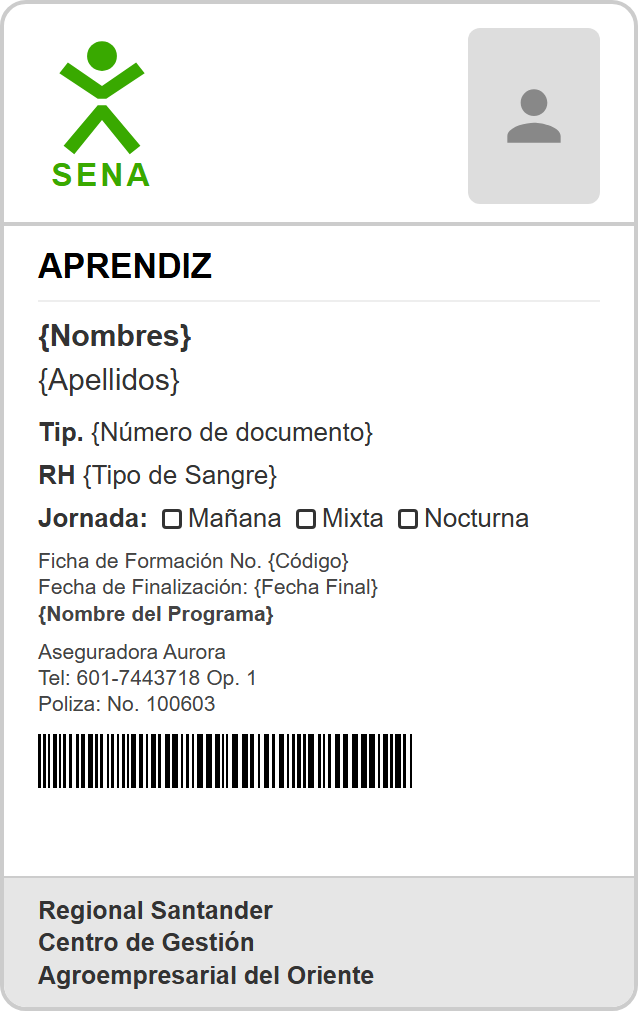
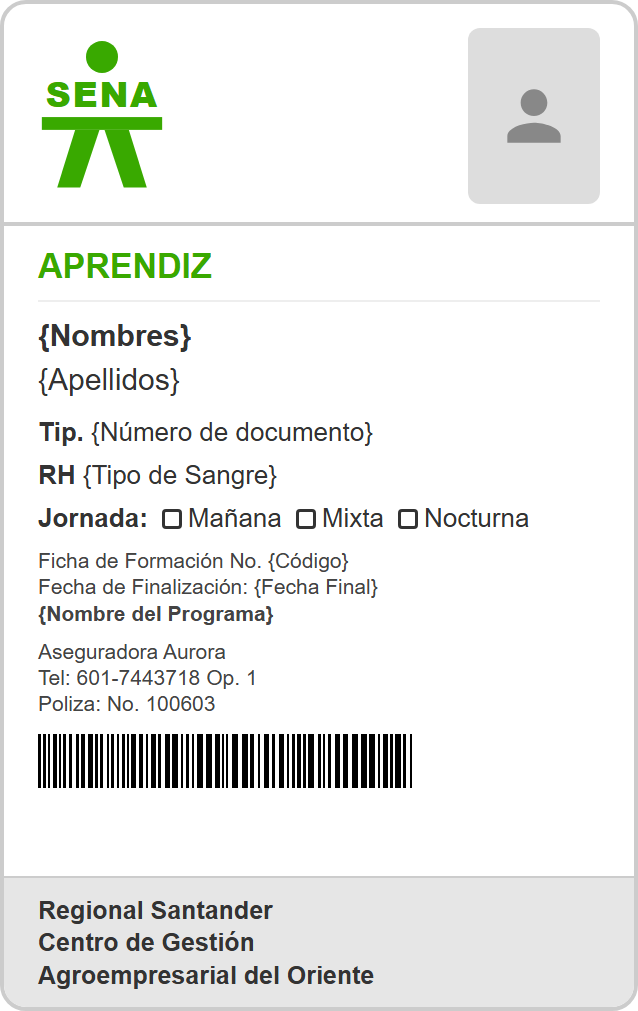
9.1

Changed region(s): [[0.0596, 0.0613, 0.268, 0.184], [0.0596, 0.2453, 0.3276, 0.276]]

diff --git a/app/templates/usuarios/profile.html b/app/templates/usuarios/profile.html
@@ -31,12 +31,12 @@
                 <div class="carnet-card institutional {{ cargo_class }}" id="carnet-capture">
                     <!-- Marca de agua decorativa -->
                     <div class="carnet-watermark">
-                        <img src="https://upload.wikimedia.org/wikipedia/commons/8/83/Sena_Colombia_logo.svg" alt="">
+                        <img src="{{ url_for('static', filename='img/logo-sena-verde.svg') }}" alt="">
                     </div>
                     
                     <div class="carnet-header-inst">
                         <div class="header-logo">
-                            <img src="https://upload.wikimedia.org/wikipedia/commons/8/83/Sena_Colombia_logo.svg" alt="SENA">
+                            <img src="{{ url_for('static', filename='img/logo-sena-verde.svg') }}" alt="SENA">
                         </div>
                         <div class="header-text-inst">
                             <div class="sena-title">SERVICIO NACIONAL DE APRENDIZAJE</div>
@@ -135,7 +135,7 @@
             <!-- Formulario Actualización / Update Form -->
             <div id="update-info-section" class="glass-card stagger-item" style="display: none;">
                 <h2 class="text-3d" style="margin-bottom: 2rem; display: flex; align-items: center; gap: 10px;">
-                    <img src="https://upload.wikimedia.org/wikipedia/commons/8/83/Sena_Colombia_logo.svg" alt="SENA"
+                    <img src="{{ url_for('static', filename='img/logo-sena-verde.svg') }}" alt="SENA"
                         style="height: 25px;">
                     Actualizar Datos
                 </h2>
@@ -191,7 +191,7 @@
             <!-- Lista de Equipos / Devices List -->
             <div id="devices-section" class="glass-card stagger-item" style="display: none;">
                 <h2 class="text-3d" style="margin-bottom: 2rem; display: flex; align-items: center; gap: 10px;">
-                    <img src="https://upload.wikimedia.org/wikipedia/commons/8/83/Sena_Colombia_logo.svg" alt="SENA"
+                    <img src="{{ url_for('static', filename='img/logo-sena-verde.svg') }}" alt="SENA"
                         style="height: 25px;">
                     Equipos Vinculados
                 </h2>
@@ -224,7 +224,7 @@
             <!-- Añadir Equipo / Add Device Form -->
             <div id="add-device-section" class="glass-card stagger-item" style="display: none;">
                 <h2 class="text-3d" style="margin-bottom: 2rem; display: flex; align-items: center; gap: 10px;">
-                    <img src="https://upload.wikimedia.org/wikipedia/commons/8/83/Sena_Colombia_logo.svg" alt="SENA"
+                    <img src="{{ url_for('static', filename='img/logo-sena-verde.svg') }}" alt="SENA"
                         style="height: 25px;">
                     Vincular Nuevo Equipo
                 </h2>

diff --git a/docs/carnets/carnet_aprendiz.html b/docs/carnets/carnet_aprendiz.html
@@ -21,7 +21,7 @@ html, body { background: #fff; }
 .carnet-body { padding: 18px 34px; flex-grow: 1; font-size: 26px; line-height: 1.35; color: #333; }
 .carnet-role {
     font-weight: bold; font-size: 34px; text-transform: uppercase;
-    margin-bottom: 14px; padding-bottom: 10px; border-bottom: 2px solid #eee; color: #000;
+    margin-bottom: 14px; padding-bottom: 10px; border-bottom: 2px solid #eee; color: #39A900;
 }
 .carnet-name { font-weight: bold; font-size: 30px; margin-bottom: 4px; }
 .carnet-surname { font-size: 30px; margin-bottom: 14px; }
@@ -45,14 +45,15 @@ html, body { background: #fff; }
 <body>
 <div class="carnet">
     <div class="carnet-header">
-        <svg width="128" viewBox="0 0 120 145" xmlns="http://www.w3.org/2000/svg">
+        <svg width="128" viewBox="0 0 200 240" xmlns="http://www.w3.org/2000/svg">
   <g fill="#39A900">
-    <circle cx="60" cy="16" r="14"/>
-    <path d="M60 44 L28 22 L20 32 L56 56 L64 56 L100 32 L92 22 Z"/>
-    <path d="M56 62 L24 100 L34 108 L60 76 L86 108 L96 100 L64 62 Z"/>
+    <circle cx="100" cy="28" r="25"/>
+    <rect x="6" y="122" width="188" height="20"/>
+    <polygon points="58,142 96,142 66,232 30,232"/>
+    <polygon points="104,142 142,142 170,232 134,232"/>
   </g>
-  <text x="60" y="138" text-anchor="middle" font-family="Arial, sans-serif"
-        font-weight="bold" font-size="30" letter-spacing="3" fill="#39A900">SENA</text>
+  <text x="100" y="106" text-anchor="middle" font-family="Arial, sans-serif"
+        font-weight="900" font-size="54" letter-spacing="3" fill="#39A900">SENA</text>
 </svg>
         <div class="carnet-photo"><svg viewBox="0 0 24 24" width="80" height="80">
   <path fill="#888" d="M12 12c2.21 0 4-1.79 4-4s-1.79-4-4-4-4 1.79-4 4 1.79 4 4 4zm0 2c-2.67 0-8 1.34-8 4v2h16v-2c0-2.66-5.33-4-8-4z"/>

diff --git a/docs/carnets/carnet_contratista.html b/docs/carnets/carnet_contratista.html
@@ -21,7 +21,7 @@ html, body { background: #fff; }
 .carnet-body { padding: 18px 34px; flex-grow: 1; font-size: 26px; line-height: 1.35; color: #333; }
 .carnet-role {
     font-weight: bold; font-size: 34px; text-transform: uppercase;
-    margin-bottom: 14px; padding-bottom: 10px; border-bottom: 2px solid #eee; color: #000;
+    margin-bottom: 14px; padding-bottom: 10px; border-bottom: 2px solid #eee; color: #39A900;
 }
 .carnet-name { font-weight: bold; font-size: 30px; margin-bottom: 4px; }
 .carnet-surname { font-size: 30px; margin-bottom: 14px; }
@@ -45,14 +45,15 @@ html, body { background: #fff; }
 <body>
 <div class="carnet">
     <div class="carnet-header">
-        <svg width="128" viewBox="0 0 120 145" xmlns="http://www.w3.org/2000/svg">
+        <svg width="128" viewBox="0 0 200 240" xmlns="http://www.w3.org/2000/svg">
   <g fill="#39A900">
-    <circle cx="60" cy="16" r="14"/>
-    <path d="M60 44 L28 22 L20 32 L56 56 L64 56 L100 32 L92 22 Z"/>
-    <path d="M56 62 L24 100 L34 108 L60 76 L86 108 L96 100 L64 62 Z"/>
+    <circle cx="100" cy="28" r="25"/>
+    <rect x="6" y="122" width="188" height="20"/>
+    <polygon points="58,142 96,142 66,232 30,232"/>
+    <polygon points="104,142 142,142 170,232 134,232"/>
   </g>
-  <text x="60" y="138" text-anchor="middle" font-family="Arial, sans-serif"
-        font-weight="bold" font-size="30" letter-spacing="3" fill="#39A900">SENA</text>
+  <text x="100" y="106" text-anchor="middle" font-family="Arial, sans-serif"
+        font-weight="900" font-size="54" letter-spacing="3" fill="#39A900">SENA</text>
 </svg>
         <div class="carnet-photo"><svg viewBox="0 0 24 24" width="80" height="80">
   <path fill="#888" d="M12 12c2.21 0 4-1.79 4-4s-1.79-4-4-4-4 1.79-4 4 1.79 4 4 4zm0 2c-2.67 0-8 1.34-8 4v2h16v-2c0-2.66-5.33-4-8-4z"/>

diff --git a/docs/carnets/carnet_funcionario.html b/docs/carnets/carnet_funcionario.html
@@ -21,7 +21,7 @@ html, body { background: #fff; }
 .carnet-body { padding: 18px 34px; flex-grow: 1; font-size: 26px; line-height: 1.35; color: #333; }
 .carnet-role {
     font-weight: bold; font-size: 34px; text-transform: uppercase;
-    margin-bottom: 14px; padding-bottom: 10px; border-bottom: 2px solid #eee; color: #000;
+    margin-bottom: 14px; padding-bottom: 10px; border-bottom: 2px solid #eee; color: #39A900;
 }
 .carnet-name { font-weight: bold; font-size: 30px; margin-bottom: 4px; }
 .carnet-surname { font-size: 30px; margin-bottom: 14px; }
@@ -45,14 +45,15 @@ html, body { background: #fff; }
 <body>
 <div class="carnet">
     <div class="carnet-header">
-        <svg width="128" viewBox="0 0 120 145" xmlns="http://www.w3.org/2000/svg">
+        <svg width="128" viewBox="0 0 200 240" xmlns="http://www.w3.org/2000/svg">
   <g fill="#39A900">
-    <circle cx="60" cy="16" r="14"/>
-    <path d="M60 44 L28 22 L20 32 L56 56 L64 56 L100 32 L92 22 Z"/>
-    <path d="M56 62 L24 100 L34 108 L60 76 L86 108 L96 100 L64 62 Z"/>
+    <circle cx="100" cy="28" r="25"/>
+    <rect x="6" y="122" width="188" height="20"/>
+    <polygon points="58,142 96,142 66,232 30,232"/>
+    <polygon points="104,142 142,142 170,232 134,232"/>
   </g>
-  <text x="60" y="138" text-anchor="middle" font-family="Arial, sans-serif"
-        font-weight="bold" font-size="30" letter-spacing="3" fill="#39A900">SENA</text>
+  <text x="100" y="106" text-anchor="middle" font-family="Arial, sans-serif"
+        font-weight="900" font-size="54" letter-spacing="3" fill="#39A900">SENA</text>
 </svg>
         <div class="carnet-photo"><svg viewBox="0 0 24 24" width="80" height="80">
   <path fill="#888" d="M12 12c2.21 0 4-1.79 4-4s-1.79-4-4-4-4 1.79-4 4 1.79 4 4 4zm0 2c-2.67 0-8 1.34-8 4v2h16v-2c0-2.66-5.33-4-8-4z"/>

diff --git a/docs/carnets/carnet_instructor.html b/docs/carnets/carnet_instructor.html
@@ -21,7 +21,7 @@ html, body { background: #fff; }
 .carnet-body { padding: 18px 34px; flex-grow: 1; font-size: 26px; line-height: 1.35; color: #333; }
 .carnet-role {
     font-weight: bold; font-size: 34px; text-transform: uppercase;
-    margin-bottom: 14px; padding-bottom: 10px; border-bottom: 2px solid #eee; color: #000;
+    margin-bottom: 14px; padding-bottom: 10px; border-bottom: 2px solid #eee; color: #39A900;
 }
 .carnet-name { font-weight: bold; font-size: 30px; margin-bottom: 4px; }
 .carnet-surname { font-size: 30px; margin-bottom: 14px; }
@@ -45,14 +45,15 @@ html, body { background: #fff; }
 <body>
 <div class="carnet">
     <div class="carnet-header">
-        <svg width="128" viewBox="0 0 120 145" xmlns="http://www.w3.org/2000/svg">
+        <svg width="128" viewBox="0 0 200 240" xmlns="http://www.w3.org/2000/svg">
   <g fill="#39A900">
-    <circle cx="60" cy="16" r="14"/>
-    <path d="M60 44 L28 22 L20 32 L56 56 L64 56 L100 32 L92 22 Z"/>
-    <path d="M56 62 L24 100 L34 108 L60 76 L86 108 L96 100 L64 62 Z"/>
+    <circle cx="100" cy="28" r="25"/>
+    <rect x="6" y="122" width="188" height="20"/>
+    <polygon points="58,142 96,142 66,232 30,232"/>
+    <polygon points="104,142 142,142 170,232 134,232"/>
   </g>
-  <text x="60" y="138" text-anchor="middle" font-family="Arial, sans-serif"
-        font-weight="bold" font-size="30" letter-spacing="3" fill="#39A900">SENA</text>
+  <text x="100" y="106" text-anchor="middle" font-family="Arial, sans-serif"
+        font-weight="900" font-size="54" letter-spacing="3" fill="#39A900">SENA</text>
 </svg>
         <div class="carnet-photo"><svg viewBox="0 0 24 24" width="80" height="80">
   <path fill="#888" d="M12 12c2.21 0 4-1.79 4-4s-1.79-4-4-4-4 1.79-4 4 1.79 4 4 4zm0 2c-2.67 0-8 1.34-8 4v2h16v-2c0-2.66-5.33-4-8-4z"/>

diff --git a/docs/carnets/carnet_subdirector.html b/docs/carnets/carnet_subdirector.html
@@ -21,7 +21,7 @@ html, body { background: #fff; }
 .carnet-body { padding: 18px 34px; flex-grow: 1; font-size: 26px; line-height: 1.35; color: #333; }
 .carnet-role {
     font-weight: bold; font-size: 34px; text-transform: uppercase;
-    margin-bottom: 14px; padding-bottom: 10px; border-bottom: 2px solid #eee; color: #000;
+    margin-bottom: 14px; padding-bottom: 10px; border-bottom: 2px solid #eee; color: #39A900;
 }
 .carnet-name { font-weight: bold; font-size: 30px; margin-bottom: 4px; }
 .carnet-surname { font-size: 30px; margin-bottom: 14px; }
@@ -45,14 +45,15 @@ html, body { background: #fff; }
 <body>
 <div class="carnet">
     <div class="carnet-header">
-        <svg width="128" viewBox="0 0 120 145" xmlns="http://www.w3.org/2000/svg">
+        <svg width="128" viewBox="0 0 200 240" xmlns="http://www.w3.org/2000/svg">
   <g fill="#39A900">
-    <circle cx="60" cy="16" r="14"/>
-    <path d="M60 44 L28 22 L20 32 L56 56 L64 56 L100 32 L92 22 Z"/>
-    <path d="M56 62 L24 100 L34 108 L60 76 L86 108 L96 100 L64 62 Z"/>
+    <circle cx="100" cy="28" r="25"/>
+    <rect x="6" y="122" width="188" height="20"/>
+    <polygon points="58,142 96,142 66,232 30,232"/>
+    <polygon points="104,142 142,142 170,232 134,232"/>
   </g>
-  <text x="60" y="138" text-anchor="middle" font-family="Arial, sans-serif"
-        font-weight="bold" font-size="30" letter-spacing="3" fill="#39A900">SENA</text>
+  <text x="100" y="106" text-anchor="middle" font-family="Arial, sans-serif"
+        font-weight="900" font-size="54" letter-spacing="3" fill="#39A900">SENA</text>
 </svg>
         <div class="carnet-photo"><svg viewBox="0 0 24 24" width="80" height="80">
   <path fill="#888" d="M12 12c2.21 0 4-1.79 4-4s-1.79-4-4-4-4 1.79-4 4 1.79 4 4 4zm0 2c-2.67 0-8 1.34-8 4v2h16v-2c0-2.66-5.33-4-8-4z"/>

diff --git a/app/templates/base.html b/app/templates/base.html
@@ -5,7 +5,7 @@
     <meta charset="UTF-8">
     <meta name="viewport" content="width=device-width, initial-scale=1.0">
     <title>SENA - Centro de Gestión Agroempresarial del Oriente</title>
-    <link rel="icon" type="image/svg+xml" href="https://upload.wikimedia.org/wikipedia/commons/8/83/Sena_Colombia_logo.svg">
+    <link rel="icon" type="image/svg+xml" href="{{ url_for('static', filename='img/logo-sena-verde.svg') }}">
     <!-- Modern Global CSS -->
     <link rel="stylesheet" href="{{ url_for('static', filename='css/global.css') }}">
     <link rel="stylesheet" href="{{ url_for('static', filename='css/componentes.css') }}">
@@ -37,7 +37,7 @@
     <div id="global-loader">
         <div class="loader-content">
             <div class="loader-spinner"></div>
-            <img src="https://upload.wikimedia.org/wikipedia/commons/8/83/Sena_Colombia_logo.svg" alt="Cargando SENA" style="width: 40px; position: absolute; top: 50%; left: 50%; transform: translate(-50%, -50%);">
+            <img src="{{ url_for('static', filename='img/logo-sena-verde.svg') }}" alt="Cargando SENA" style="width: 40px; position: absolute; top: 50%; left: 50%; transform: translate(-50%, -50%);">
         </div>
     </div>
 

diff --git a/app/templates/usuarios/carnet.html b/app/templates/usuarios/carnet.html
@@ -20,14 +20,15 @@
 
 {# ---------- Logo SENA en VERDE institucional (#39A900) ---------- #}
 {% macro sena_logo() %}
-<svg class="carnet-logo" viewBox="0 0 120 145" xmlns="http://www.w3.org/2000/svg" role="img" aria-label="Logo SENA">
+<svg class="carnet-logo" viewBox="0 0 200 240" xmlns="http://www.w3.org/2000/svg" role="img" aria-label="Logo SENA">
     <g fill="#39A900">
-        <circle cx="60" cy="16" r="14"/>
-        <path d="M60 44 L28 22 L20 32 L56 56 L64 56 L100 32 L92 22 Z"/>
-        <path d="M56 62 L24 100 L34 108 L60 76 L86 108 L96 100 L64 62 Z"/>
+        <circle cx="100" cy="28" r="25"/>
+        <rect x="6" y="122" width="188" height="20"/>
+        <polygon points="58,142 96,142 66,232 30,232"/>
+        <polygon points="104,142 142,142 170,232 134,232"/>
     </g>
-    <text x="60" y="138" text-anchor="middle" font-family="Arial, sans-serif"
-          font-weight="bold" font-size="30" letter-spacing="3" fill="#39A900">SENA</text>
+    <text x="100" y="106" text-anchor="middle" font-family="Arial, sans-serif"
+          font-weight="900" font-size="54" letter-spacing="3" fill="#39A900">SENA</text>
 </svg>
 {% endmacro %}
 

diff --git a/app/templates/auth/verificar.html b/app/templates/auth/verificar.html
@@ -6,7 +6,7 @@
         <!-- Encabezado de Marca / Branded Hero -->
         <div class="welcome-section glass-welcome animate-on-scroll" data-animation="swipe-left">
             <div class="brand-hero stagger-item" style="display: flex; align-items: center; gap: 1rem;">
-                <img src="https://upload.wikimedia.org/wikipedia/commons/8/83/Sena_Colombia_logo.svg" alt="SENA Logo" class="sidebar-logo" style="height: 80px;">
+                <img src="{{ url_for('static', filename='img/logo-sena-verde.svg') }}" alt="SENA Logo" class="sidebar-logo" style="height: 80px;">
                 <h1 class="text-3d dust-reveal">Verifica tu <span class="highlight-rainbow">Correo</span></h1>
             </div>
             <p class="stagger-item">Protegemos tu identidad con autenticación de dos factores. Ingresa el código de 6 dígitos que enviamos a tu bandeja institucional para desbloquear el acceso táctico.</p>

diff --git a/app/templates/porteria/verify.html b/app/templates/porteria/verify.html
@@ -6,7 +6,7 @@
 <div class="carnet-wrapper animate-on-scroll" data-animation="scale-in">
     <div class="carnet-card" style="width: 400px;">
         <div class="carnet-header">
-            <img src="https://upload.wikimedia.org/wikipedia/commons/8/83/Sena_Colombia_logo.svg" alt="SENA Logo"
+            <img src="{{ url_for('static', filename='img/logo-sena-verde.svg') }}" alt="SENA Logo"
                 class="sena-logo-carnet">
             <span class="sena-text"><span class="highlight-rainbow">SENA</span> <span
                     class="highlight-rainbow">C.G.A.O</span></span>

diff --git a/app/templates/partials/_header.html b/app/templates/partials/_header.html
@@ -4,7 +4,7 @@
             <i class="fas fa-bars"></i>
         </div>
         <div class="logo-header-group">
-            <img src="https://upload.wikimedia.org/wikipedia/commons/8/83/Sena_Colombia_logo.svg" alt="SENA Logo" class="header-logo">
+            <img src="{{ url_for('static', filename='img/logo-sena-verde.svg') }}" alt="SENA Logo" class="header-logo">
             <h1 class="page-title highlight-rainbow text-3d">{% block title %}Panel General{% endblock %}</h1>
         </div>
         <div style="display: flex; align-items: center; gap: 20px; margin-left: auto;">

diff --git a/app/templates/auth/login.html b/app/templates/auth/login.html
@@ -6,7 +6,7 @@
 <div class="auth-split-wrapper">
     <!-- Branding Section -->
     <div class="branding-section">
-        <img src="https://upload.wikimedia.org/wikipedia/commons/8/83/Sena_Colombia_logo.svg" alt="SENA Logo" class="branding-logo">
+        <img src="{{ url_for('static', filename='img/logo-sena-verde.svg') }}" alt="SENA Logo" class="branding-logo">
         <h1 class="branding-title">
             Únete al <span class="text-accent-green">Centro de Gestión</span>
             <span class="text-accent-orange">Agroempresarial</span>
